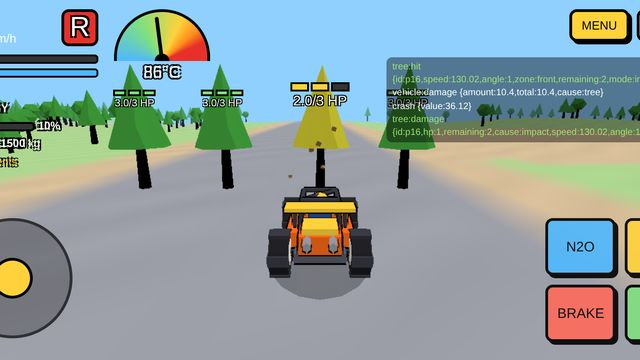
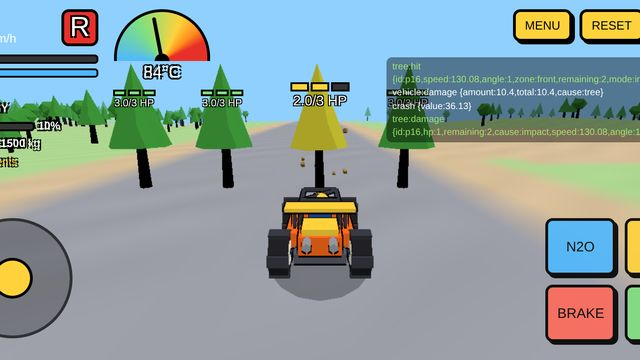
Bake: sinerally b93c3b6 (harvester melt, wide roads, arcade handling, UI modes), physics 5dfd424, terrain 0b2e409

diff --git a/index.html b/index.html
@@ -43,7 +43,7 @@ footer{max-width:1100px;margin:16px auto 0;font-size:12px;font-weight:700;color:
 <main id="grid"></main>
 <div id="a2hs">📲 iPhone: tap <b>Share</b> → <b>Add to Home Screen</b> to install this launcher (and each game) as an app.</div>
 <footer>leck-games · builds update automatically · <span id="net"></span></footer>
-<script id="builds" type="application/json">[{"id":"sinerally","repo":"sinerally","url":"https://leck-games.github.io/sinerally/","title":"SINE RALLY","tag":"MAIN GAME","desc":"The main game: open-world rally with 5 cars, tree HP, grass fire, forest weather and an engine sound editor.","color":"#ff6a1a","thumb":"thumbs/sinerally.jpg","sha":"957c2a5","date":"2026-10-28T08:38:52Z"},{"id":"physics","repo":"sinerally-physics","url":"https://leck-games.github.io/sinerally-physics/","title":"PHYSICS LAB","tag":"TEST BUILD","desc":"Tree HP, engine heat, car selector and attachments.","color":"#e8453c","thumb":"thumbs/physics.jpg","sha":"941ff56","date":"2026-10-26T17:58:27Z"},{"id":"terrain","repo":"sinerally-terrain","url":"https://leck-games.github.io/sinerally-terrain/","title":"TERRAIN","tag":"TEST BUILD","desc":"Forests, grassland fire and forest weather.","color":"#2f8f4e","thumb":"thumbs/terrain.jpg","sha":"3e6d3c9","date":"2026-10-28T04:43:45Z"},{"id":"enginesim","repo":"sinerally-enginesim","url":"https://leck-games.github.io/sinerally-enginesim/","title":"ENGINE SIM","tag":"SOUND","desc":"Engine sound simulator: build an engine, rev it.","color":"#38c45a","thumb":"thumbs/enginesim.jpg","sha":"447c965","date":"2026-10-28T08:04:47Z"},{"id":"engine","repo":"sinerally-engine","url":"https://leck-games.github.io/sinerally-engine/","title":"ENGINE TEST","tag":"OLD BUILD","desc":"Older physics / terrain test build.","color":"#4fb3ff","thumb":"thumbs/engine.jpg","sha":"7985921","date":"2026-10-26T17:58:11Z"}]</script>
+<script id="builds" type="application/json">[{"id":"sinerally","repo":"sinerally","url":"https://leck-games.github.io/sinerally/","title":"SINE RALLY","tag":"MAIN GAME","desc":"The main game: open-world rally with 5 cars, tree HP, grass fire, forest weather and an engine sound editor.","color":"#ff6a1a","thumb":"thumbs/sinerally.jpg","sha":"b93c3b6","date":"2026-10-28T09:23:54Z"},{"id":"physics","repo":"sinerally-physics","url":"https://leck-games.github.io/sinerally-physics/","title":"PHYSICS LAB","tag":"TEST BUILD","desc":"Tree HP, engine heat, car selector and attachments.","color":"#e8453c","thumb":"thumbs/physics.jpg","sha":"5dfd424","date":"2026-10-28T08:58:43Z"},{"id":"terrain","repo":"sinerally-terrain","url":"https://leck-games.github.io/sinerally-terrain/","title":"TERRAIN","tag":"TEST BUILD","desc":"Forests, grassland fire and forest weather.","color":"#2f8f4e","thumb":"thumbs/terrain.jpg","sha":"0b2e409","date":"2026-10-28T09:04:05Z"},{"id":"enginesim","repo":"sinerally-enginesim","url":"https://leck-games.github.io/sinerally-enginesim/","title":"ENGINE SIM","tag":"SOUND","desc":"Engine sound simulator: build an engine, rev it.","color":"#38c45a","thumb":"thumbs/enginesim.jpg","sha":"447c965","date":"2026-10-28T08:04:47Z"},{"id":"engine","repo":"sinerally-engine","url":"https://leck-games.github.io/sinerally-engine/","title":"ENGINE TEST","tag":"OLD BUILD","desc":"Older physics / terrain test build.","color":"#4fb3ff","thumb":"thumbs/engine.jpg","sha":"7985921","date":"2026-10-26T17:58:11Z"}]</script>
 <script>
 (function(){
   var de=document.documentElement, nav=navigator;
